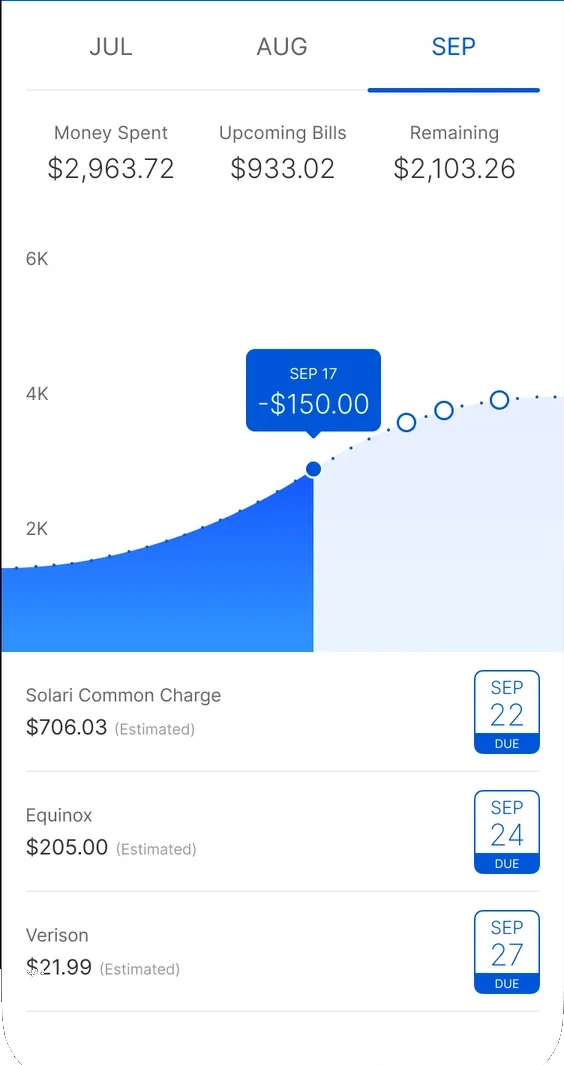
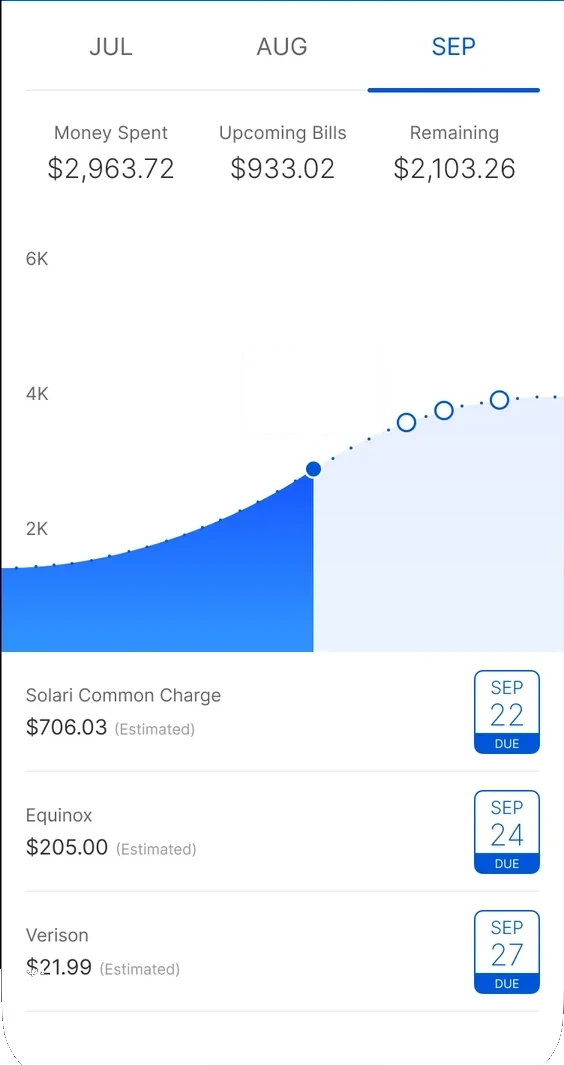
Citi Monthly Overview: beat-by-beat rhythm (ease in, land, breath), cubic scroll, glide expand/collapse, tooltip last in / first out; loop 11984 ms; citi-chart.js?v=287

Changed region(s): [[0.422, 0.3099, 0.6933, 0.4338]]

diff --git a/js/citi-chart.js b/js/citi-chart.js
@@ -4,25 +4,33 @@
    slice = the img's object-fit:cover) draws the phone screen from three crops of the slides (assets/citi/mo/: strip = the dashboard,
    citi-16 screen + citi-18 screen, head = both headers, feat = the citi-19 feature page) plus the live chart (verbatim Figma vectors,
    Graph 141388:14143). Coordinates: slide px; the screen is x 1158.5..1721, y 201..1419 (375x812 pt at 1.5x).
-   Loop (ms, all on the 8 ms grid), PERIOD 8840:
-     0-240 dashboard on Spending Insights · 240-2040 scroll down 1073 px (715 pt), easeInOutSine · 1960 the dark area starts to
-     fill from the left (pale area already in place), the dots trail the fill edge, 2712 the current-point dot lands, 3264/3360/3456
-     the three circles pop (288 each, flat overshoot) · 3744-4640 the card expands into the feature page (shared element: card rect
-     -> full screen, 16 pt corners -> 0, chart rides to its feature-page place; header, tabs, summary, chart labels + tooltip,
-     bills chain in) · 4640-6144 hold · 6144-7040 the exact reverse (collapse into the card, chart still full) · 7040-8840 scroll back
-     up · the chart clears at 0, when the card is off screen.
+   Loop (ms, all on the 8 ms grid), PERIOD 11984. Each beat eases in, lands, then a short breath before the next:
+     0-320 rest on Spending Insights · 320-2240 scroll down 1073 px (easeInOutCubic) · 2480-3520 the dark area fills from the
+     left to the current point (easeOutCubic; pale area already in place), past dots trail the edge · 3760-4080 current point
+     lands (easeOutCubic) · 4320-5040 the projection dots trail on and the three circles pop as the trail reaches them
+     (easeOutCubic) · 5360-6320 the card expands into the feature page (shared element, cubic-bezier(.45,0,.15,1) settle;
+     header, tabs, summary, chart labels, bills chain in and land inside it) · 6560-6960 the SEP 17 tooltip fades in rising
+     12 px (8 pt, easeOutCubic) · hold to 8464 · 8464-8704 the tooltip leaves first (easeInCubic) · 8864-9824 collapse
+     (same curve, reversed geometry) · 10064-11984 scroll back up (easeInOutCubic) · the chart clears at the loop point,
+     with the card off screen.
    Plays while it has the page's demo turn (js/demos.js), the box is >= 35% in view and the tab is visible; paused where it is
    otherwise. Never interactive. Reduced motion: the still image (t 3744). window.__citiMo: seek(t) / resume() / PERIOD for captures. */
 (function(){"use strict";
-var doc=document,NS="http://www.w3.org/2000/svg",RM=matchMedia("(prefers-reduced-motion: reduce)"),V="?v=286";
-var D=1073,TOP=240,SCR=1800,C0=1960,E0=3744,EXP=896,HOLD=1504,C1=E0+EXP+HOLD,U0=C1+EXP,PERIOD=U0+SCR; /* 8840 */
+var doc=document,NS="http://www.w3.org/2000/svg",RM=matchMedia("(prefers-reduced-motion: reduce)"),V="?v=287";
+var D=1073,TOP=320,SCR=1920,C0=2480,FILL=1040,PT0=3760,PTD=320,TR0=4320,TRD=720,E0=5360,EXP=960,
+ TIP0=6560,TIPD=400,TOUT=8464,TOD=240,C1=8864,U0=10064,PERIOD=U0+SCR; /* 11984 */
 var CARD={x:18.5,y:285,w:527,h:570,r:24},FULL={x:0,y:131,w:564,h:1087},CHART_DY=-73; /* screen-crop px (origin 1158,201) */
 /* chart (Graph frame G, 375x300 pt; origin at crop (0.5,405), scale 1.5), times from C0 */
-var DOTS=[[10,244,200],[23,243,264],[35,242,320],[47,241,360],[60,239,400],[72,236,432],[85,233,472],[97,230,496],[110,226,528],[122,222,560],[134,217,584],[146,212,616],[159,206,640],[171,200,672],[184,193,696],[196,186,720],[208,178,752],[221,171,776],[233,164,800],[245,158,832],[258,152,864],[270,147,888],[283,143,920],[295,139,952],[307,136,984],[320,134,1024],[332,132,1064],[344,131,1104],[357,130,1168],[369,130,1240]],
- SOLID=[208,178,752],RINGS=[[270,147,1304],[295,139,1400],[332,132,1496]],WIPE=1280,DOT=160,LAND=240,POP=288,CEND=1784;
+var DOTS=[[10,244],[23,243],[35,242],[47,241],[60,239],[72,236],[85,233],[97,230],[110,226],[122,222],[134,217],[146,212],[159,206],[171,200],[184,193],[196,186],[208,178],[221,171],[233,164],[245,158],[258,152],[270,147],[283,143],[295,139],[307,136],[320,134],[332,132],[344,131],[357,130],[369,130]],
+ SOLID=[208,178],RINGS=[[270,147],[295,139],[332,132]],DOT=160,POP=288,XE=208;
 var cl=function(v){return v<0?0:v>1?1:v},sine=function(t){return(1-Math.cos(Math.PI*t))/2},
- cub=function(t){return 1-Math.pow(1-t,3)},inout=function(t){return t<.5?4*t*t*t:1-Math.pow(-2*t+2,3)/2},
- back=function(t){var s=1.2;t-=1;return 1+(s+1)*t*t*t+s*t*t},          /* ~5% overshoot, flat 2D scale */
+ cub=function(t){return 1-Math.pow(1-t,3)},cin=function(t){return t*t*t},inout=function(t){return t<.5?4*t*t*t:1-Math.pow(-2*t+2,3)/2},
+ ucub=function(f){return 1-Math.pow(1-cl(f),1/3)},                          /* inverse of easeOutCubic: when the edge reaches f */
+ g8=function(v){return Math.round(v/8)*8},
+ bez=function(x1,y1,x2,y2){return function(x){if(x<=0)return 0;if(x>=1)return 1;var u=x,i,cx,dx;   /* cubic-bezier(), CSS-style */
+  for(i=0;i<8;i++){cx=3*x1*u*(1-u)*(1-u)+3*x2*u*u*(1-u)+u*u*u-x;dx=3*x1*(1-u)*(1-3*u)+3*x2*u*(2-3*u)+3*u*u;if(Math.abs(cx)<1e-5||!dx)break;u=cl(u-cx/dx)}
+  return 3*y1*u*(1-u)*(1-u)+3*y2*u*u*(1-u)+u*u*u}},
+ glide=bez(.45,0,.15,1),                                                    /* expand/collapse: soft lift-off, long settle */
  seg=function(p,a,b){return cl((p*EXP-a)/(b-a))};                         /* stage of the expand, a..b ms into it */
 function el(t,a,p){var e=doc.createElementNS(NS,t);for(var k in a)e.setAttribute(k,a[k]);if(p)p.appendChild(e);return e}
 function rr(x,y,w,h,r){if(window.Squircle&&Squircle.pathR&&r>.5)return Squircle.pathR(w,h,[r,r,r,r],.6,x,y);
@@ -31,7 +39,7 @@ function rr(x,y,w,h,r){if(window.Squircle&&Squircle.pathR&&r>.5)return Squircle.
 function win(src,y0,h,y,p,H){var s=el("svg",{x:0,y:y,width:564,height:h,viewBox:"0 "+y0+" 564 "+h,overflow:"hidden"},p);
  el("image",{href:src,width:564,height:H,preserveAspectRatio:"none"},s);return s}
 function build(host,id){
- var B="../assets/citi/mo/",SRC={strip:B+"strip.webp"+V,head:B+"head.webp"+V,feat:B+"feat.webp"+V};
+ var B="../assets/citi/mo/",SRC={strip:B+"strip.webp"+V,head:B+"head.webp"+V,feat:B+"feat.webp"+V,tip:B+"tip.webp"+V};
  var svg=el("svg",{viewBox:"0 0 2880 1620",preserveAspectRatio:"xMidYMid slice","aria-hidden":"true",focusable:"false"});
  svg.innerHTML='<defs><linearGradient id="@p" x1="39.3897" y1="-47.6107" x2="39.3897" y2="240" gradientUnits="userSpaceOnUse"><stop offset="0" stop-color="#002BFF"/><stop offset="1" stop-color="#2F90FF"/></linearGradient>'
   +'<linearGradient id="@d" x1="22.2199" y1="42.9996" x2="22.2199" y2="239.498" gradientUnits="userSpaceOnUse"><stop offset="0" stop-color="#002BFF"/><stop offset="1" stop-color="#2F90FF"/></linearGradient>'
@@ -40,7 +48,7 @@ function build(host,id){
   +'<g clip-path="url(#@c)"><g class="ch"><g transform="translate(0.5 405) scale(1.5)"><g transform="translate(0 50)">'
   +'<path opacity="0.1" fill-rule="evenodd" fill="url(#@p)" d="M0.996094 194.289C96.8942 195.662 177.342 149.188 203.98 131.025C246.073 102.326 299.346 79.7437 374.999 79.7432V250H203.98H0.996094"/>'
   +'<path clip-path="url(#@w)" fill-rule="evenodd" fill="url(#@d)" d="M0 194.074C117.375 194.074 208 128 208 128V250H0"/></g><g class="d"></g><g class="pt"></g></g></g></g></g>'
-  +'<g class="feat"></g><rect x="181.5" y="1196.5" width="200" height="7.5" rx="3.75" fill="#000"/></g><g class="hd"></g><g class="hf"></g></g>';
+  +'<g class="feat"></g><g class="tp"></g><rect x="181.5" y="1196.5" width="200" height="7.5" rx="3.75" fill="#000"/></g><g class="hd"></g><g class="hf"></g></g>';
  svg.innerHTML=svg.innerHTML.replace(/@/g,id);
  var q=function(s){return svg.querySelector(s)},dash=q(".dash"),card=q(".card"),bg=q(".bg"),cc=q(".cc"),ch=q(".ch"),cp=q("#"+id+"c path"),
   wipe=q("#"+id+"w rect"),feat=q(".feat"),hf=q(".hf"),parts=[];
@@ -49,26 +57,37 @@ function build(host,id){
  win(SRC.head,0,131,0,q(".hd"),262);win(SRC.head,131,131,0,hf,262);
  var band=function(y0,y1){var g=el("g",{},feat);win(SRC.feat,y0-131,y1-y0,y0,g,1065);return g};
  var tabs=band(131,226),sum=band(226,330),cht=band(330,782),bills=band(782,1196);
- DOTS.forEach(function(d){parts.push({t:d[2],dur:DOT,f:cub,x:d[0],y:d[1],e:el("circle",{cx:d[0],cy:d[1],r:1,fill:"#0055D8"},q(".d")),o:1})});
- parts.push({t:SOLID[2],dur:LAND,f:back,x:SOLID[0],y:SOLID[1],e:el("circle",{cx:SOLID[0],cy:SOLID[1],r:5.75,fill:"#0055D8",stroke:"#fff","stroke-width":1.5},q(".pt")),o:.5});
- RINGS.forEach(function(r){parts.push({t:r[2],dur:POP,f:back,x:r[0],y:r[1],e:el("circle",{cx:r[0],cy:r[1],r:5.75,fill:"#fff",stroke:"#0055D8","stroke-width":1.5},q(".pt")),o:.4})});
+ /* when the fill edge (0..XE over FILL) or the projection trail (XE..375 over TRD) reaches x; times from C0, on the 8 ms grid */
+ var at=function(x){return x<XE?g8(FILL*ucub(x/XE)):TR0-C0+g8(TRD*ucub((x-XE)/(375-XE)))};
+ DOTS.forEach(function(d){parts.push({t:at(d[0]),dur:DOT,f:cub,x:d[0],y:d[1],e:el("circle",{cx:d[0],cy:d[1],r:1,fill:"#0055D8"},q(".d")),o:1})});
+ parts.push({t:PT0-C0,dur:PTD,f:cub,x:SOLID[0],y:SOLID[1],e:el("circle",{cx:SOLID[0],cy:SOLID[1],r:5.75,fill:"#0055D8",stroke:"#fff","stroke-width":1.5},q(".pt")),o:.5});
+ RINGS.forEach(function(r){parts.push({t:at(r[0]),dur:POP,f:cub,x:r[0],y:r[1],e:el("circle",{cx:r[0],cy:r[1],r:5.75,fill:"#fff",stroke:"#0055D8","stroke-width":1.5},q(".pt")),o:.4})});
+ var tip=el("image",{href:SRC.tip,x:236,y:470,width:156,height:110},q(".tp"));   /* SEP 17 tooltip, above the page */
  var op=function(e,v){e.setAttribute("opacity",v>=1?1:v.toFixed(3))},tr=function(e,x,y){e.setAttribute("transform",x||y?"translate("+x.toFixed(2)+" "+y.toFixed(2)+")":"")};
  host.appendChild(svg);
  return [function(t){t=((t%PERIOD)+PERIOD)%PERIOD;
   /* scroll position (px) and expand progress p (0 card .. 1 feature page) */
-  var s=t<TOP?0:t<TOP+SCR?D*sine((t-TOP)/SCR):t<U0?D:D*(1-sine((t-U0)/SCR));
-  var p=t<E0?0:t<E0+EXP?(t-E0)/EXP:t<C1?1:t<U0?1-(t-C1)/EXP:0,e=inout(p);
-  var tc=t>=C0&&t<PERIOD?t-C0:-1;                                            /* chart clock; clears at the loop point */
-  tr(strip,0,0);strip.setAttribute("y",131-s);tr(card,0,D-s);
+  var s=t<TOP?0:t<TOP+SCR?D*inout((t-TOP)/SCR):t<U0?D:t<PERIOD?D*(1-inout((t-U0)/SCR)):0;
+  /* p: linear expand progress (sub-stages hang off it, so the collapse replays them in reverse); e: the card geometry */
+  var p=t<E0?0:t<E0+EXP?(t-E0)/EXP:t<C1?1:t<C1+EXP?1-(t-C1)/EXP:0;
+  var e=t<C1?glide(p):1-glide(1-p);
+  var tc=t>=C0?t-C0:-1;                                                       /* chart clock; clears at the loop point */
+  strip.setAttribute("y",131-s);tr(card,0,D-s);
   op(dash,1-cub(seg(p,0,320)));
   var x=CARD.x+(FULL.x-CARD.x)*e,y=CARD.y+(FULL.y-CARD.y)*e,w=CARD.w+(FULL.w-CARD.w)*e,h=CARD.h+(FULL.h-CARD.h)*e,r=CARD.r*(1-e),d=rr(x,y,w,h,r);
   bg.setAttribute("d",d);cp.setAttribute("d",d);
-  op(cc,1-seg(p,0,320));tr(cc,0,(FULL.y-CARD.y)*e-24*e);tr(ch,0,CHART_DY*e);
-  op(hf,inout(seg(p,0,512)));op(tabs,inout(seg(p,384,704)));
-  var a=inout(seg(p,448,768));op(sum,a);tr(sum,0,12*(1-a));
-  op(cht,Math.pow(seg(p,640,896),2));
-  a=inout(seg(p,512,896));op(bills,a);tr(bills,0,36*(1-a));
-  wipe.setAttribute("width",tc<0?0:(375*sine(cl(tc/WIPE))).toFixed(2));
+  op(cc,1-cub(seg(p,0,320)));tr(cc,0,(FULL.y-CARD.y)*e-24*e);tr(ch,0,CHART_DY*e);
+  /* on the collapse the page contents leave in the first 600 ms (reverse order), before the card has moved far */
+  var q=t>=C1&&t<C1+EXP?cl(1-(t-C1)*1.6/EXP):p;
+  op(hf,inout(seg(p,0,480)));op(tabs,cub(seg(q,320,640)));
+  var a=cub(seg(q,384,704));op(sum,a);tr(sum,0,12*(1-a));
+  op(cht,t>=C1&&t<C1+EXP?1-cub(cl((t-C1)/160)):cub(seg(p,448,768)));         /* labels: first page part out, before the chart moves */
+  a=cub(seg(q,512,896));op(bills,a);tr(bills,0,36*(1-a));
+  /* tooltip: last in once the page has settled, first out */
+  a=t<TIP0||t>=TOUT+TOD?0:t<TIP0+TIPD?cub((t-TIP0)/TIPD):t<TOUT?1:1-cin((t-TOUT)/TOD);
+  op(tip,a);tip.setAttribute("y",(470+12*(1-a)).toFixed(2));
+  var we=tc<0?0:tc<FILL?XE*cub(tc/FILL):t<TR0?XE:XE+(375-XE)*cub(cl((t-TR0)/TRD));
+  wipe.setAttribute("width",we.toFixed(2));
   for(var i=0;i<parts.length;i++){var o=parts[i],u=tc<0?0:cl((tc-o.t)/o.dur),k=u>=1?1:o.f(u);
    op(o.e,cl(u/o.o));o.e.setAttribute("transform",k===1?"":"translate("+o.x+" "+o.y+") scale("+Math.max(0,k).toFixed(4)+") translate("+(-o.x)+" "+(-o.y)+")")}}
  ,SRC];
